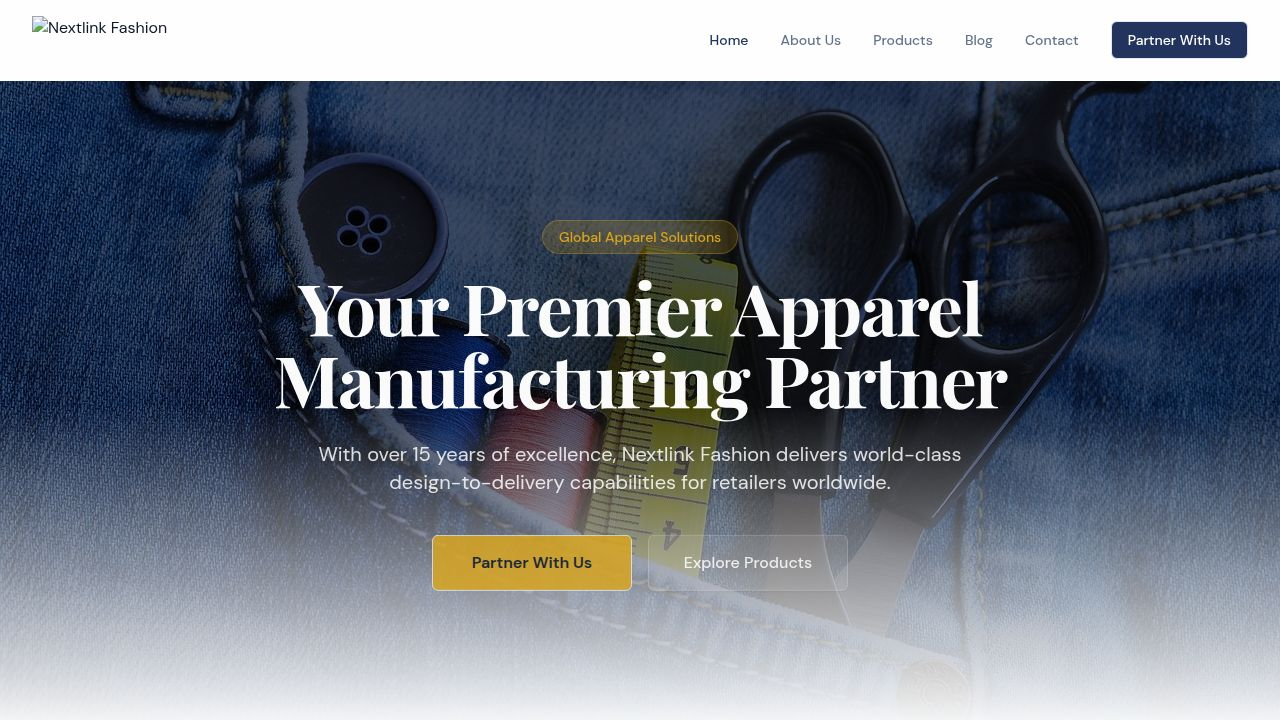
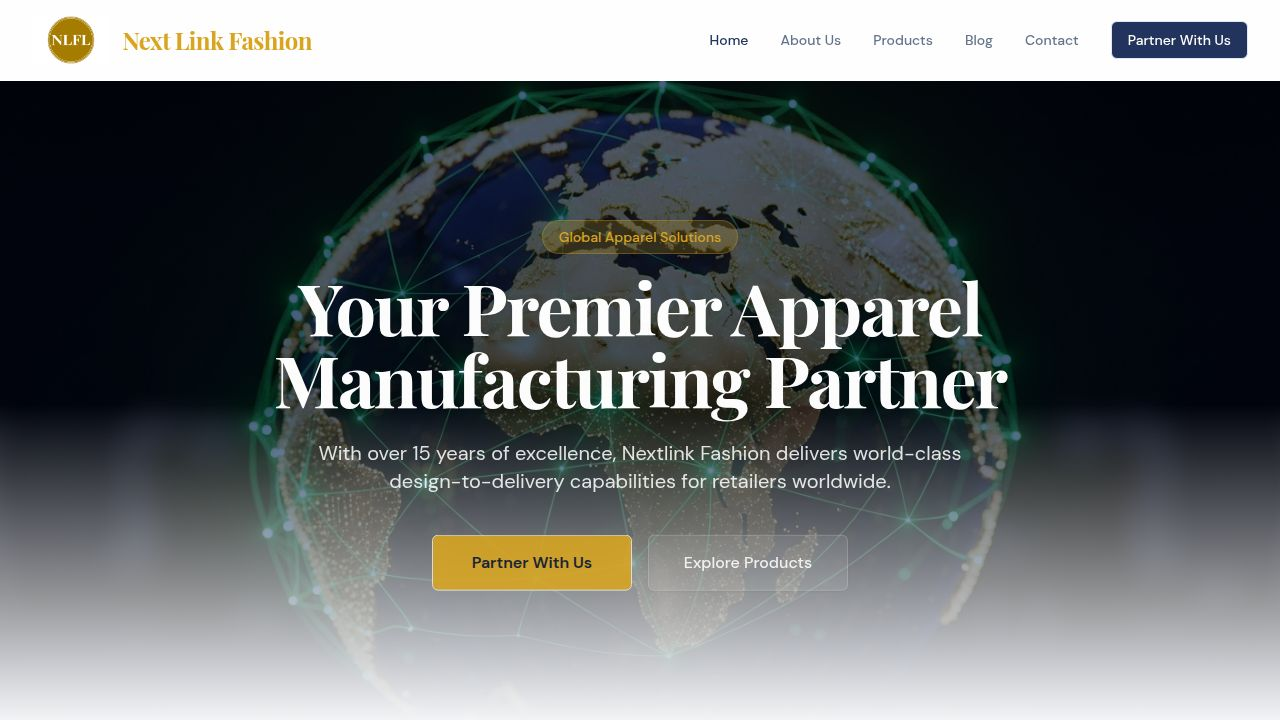
Update landing page hero image to a globe
Replaces the manufacturing hero image with a new globe image in client/src/pages/home.tsx and adds client/public/opengraph.jpg.

Replit-Commit-Author: Agent
Replit-Commit-Session-Id: cd8cb8a4-e30e-49ee-b60f-360d124d623a
Replit-Commit-Checkpoint-Type: full_checkpoint
Replit-Commit-Event-Id: 3c66fd11-25bf-4b12-b5d0-416d2d7d8ba7
Replit-Commit-Screenshot-Url: https://storage.googleapis.com/screenshot-production-us-central1/94e5c86e-2dee-4964-a74d-40efd2d3adeb/cd8cb8a4-e30e-49ee-b60f-360d124d623a/EGXx8QJ
Replit-Helium-Checkpoint-Created: true

diff --git a/client/src/pages/home.tsx b/client/src/pages/home.tsx
@@ -1,6 +1,6 @@
 import { Button } from "@/components/ui/button";
 import { Link } from "wouter";
-import heroImg from "@/assets/images/hero-manufacturing.jpg";
+import heroImg from "@/assets/images/hero-globe.png";
 import globalImg from "@/assets/images/global-footprint.jpg";
 
 export default function Home() {
